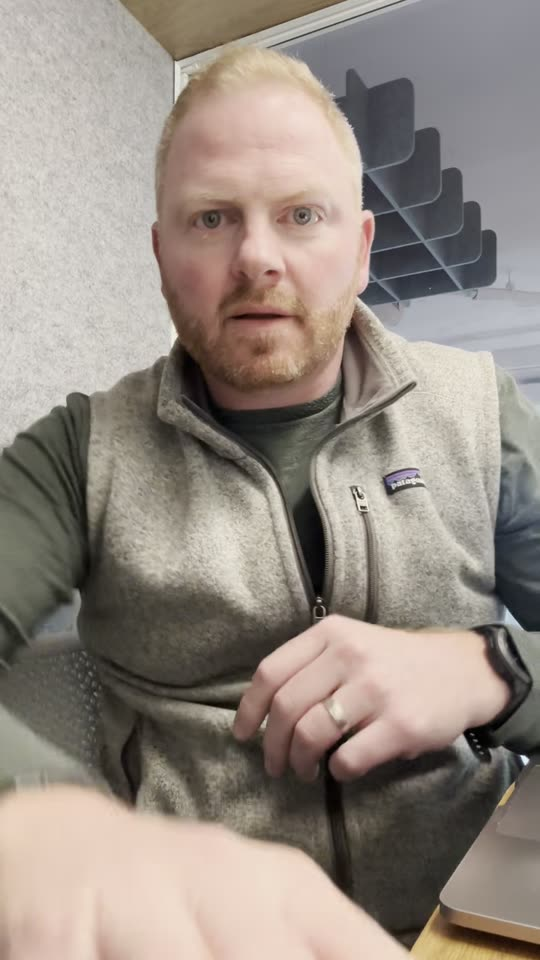
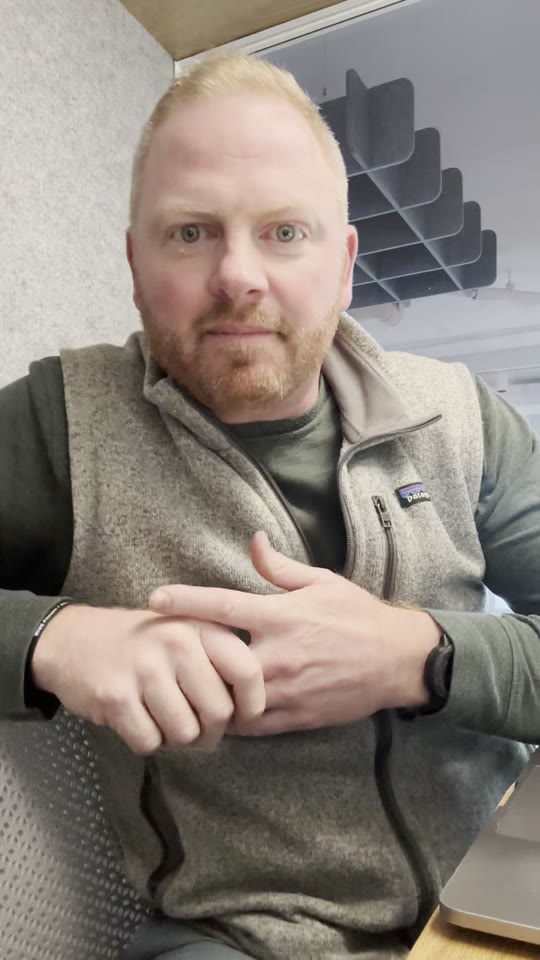
Rally landing: a better poster frame for the intro video
The poster is now the frame at 3.8 s (looking at the camera, mouth closed,
hands at rest) instead of 0.6 s (mid-gesture, hand blurred). Versioned URL
so cached copies refresh.

Claude-Session: https://claude.ai/code/session_01WTgSmjAHMEaxTS3KnyKv1T

diff --git a/components/brand/IntroVideo.tsx b/components/brand/IntroVideo.tsx
@@ -3,7 +3,7 @@
 import { Play } from "lucide-react";
 import { useRef, useState } from "react";
 
-export const INTRO_VIDEO = { src: "/rally/intro.mp4", poster: "/rally/intro-poster.jpg", length: "0:58", who: "Ryan Spillane", role: "Cofounding CRO, Growth Goaled" };
+export const INTRO_VIDEO = { src: "/rally/intro.mp4", poster: "/rally/intro-poster.jpg?v=2", length: "0:58", who: "Ryan Spillane", role: "Cofounding CRO, Growth Goaled" };
 
 /**
  * The Rally intro video on the landing page (Nov 24, 2026): a phone-shaped card with its poster and
